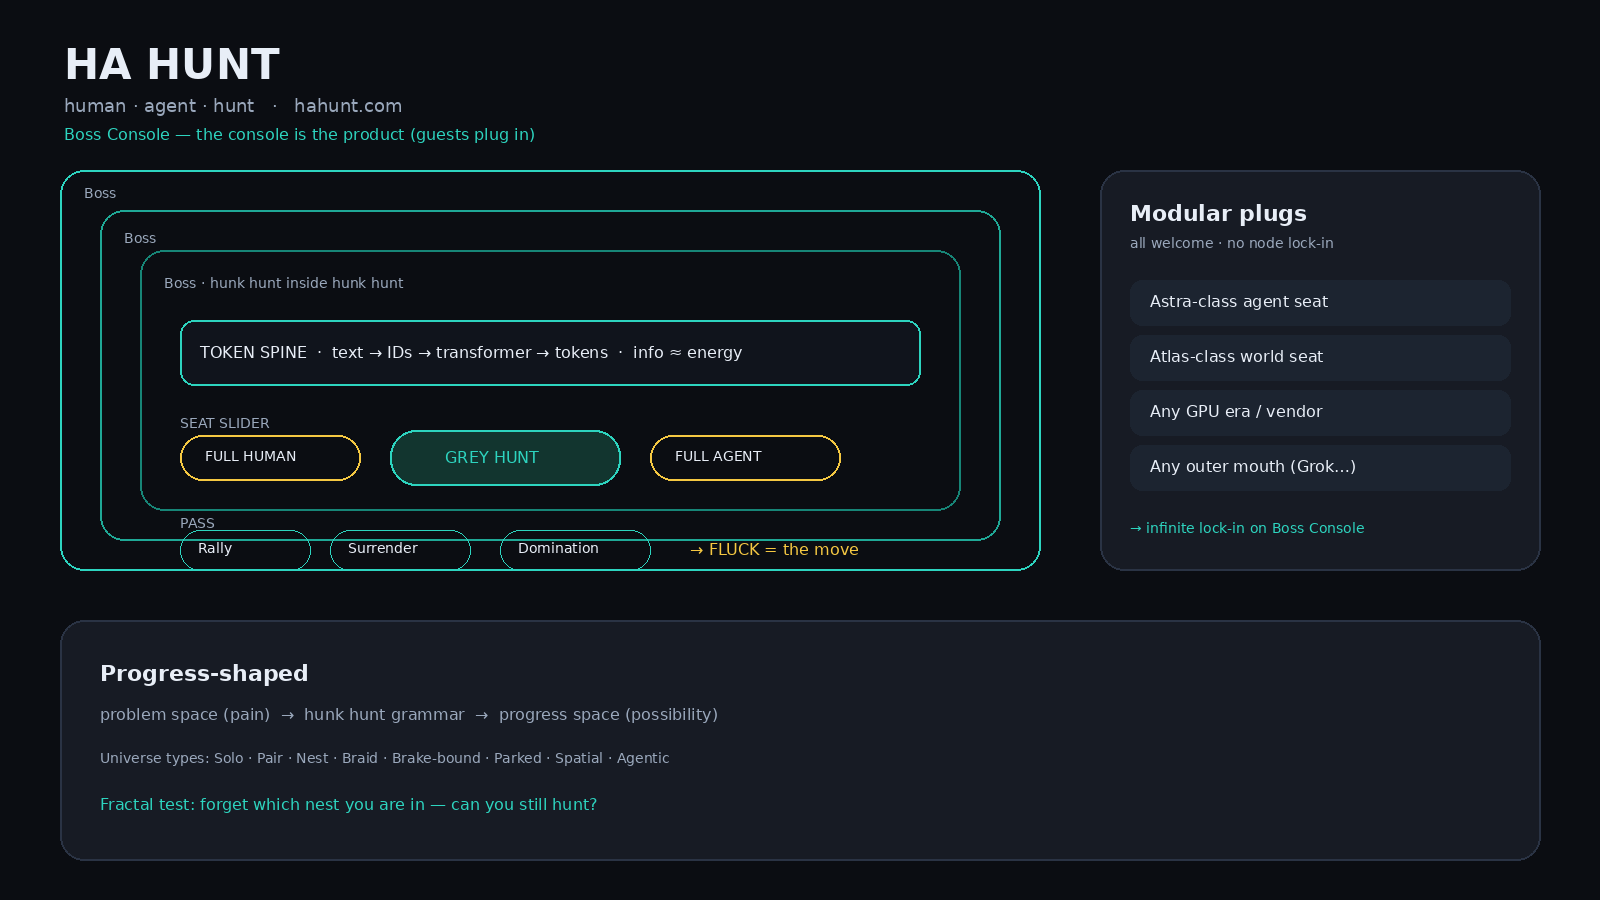
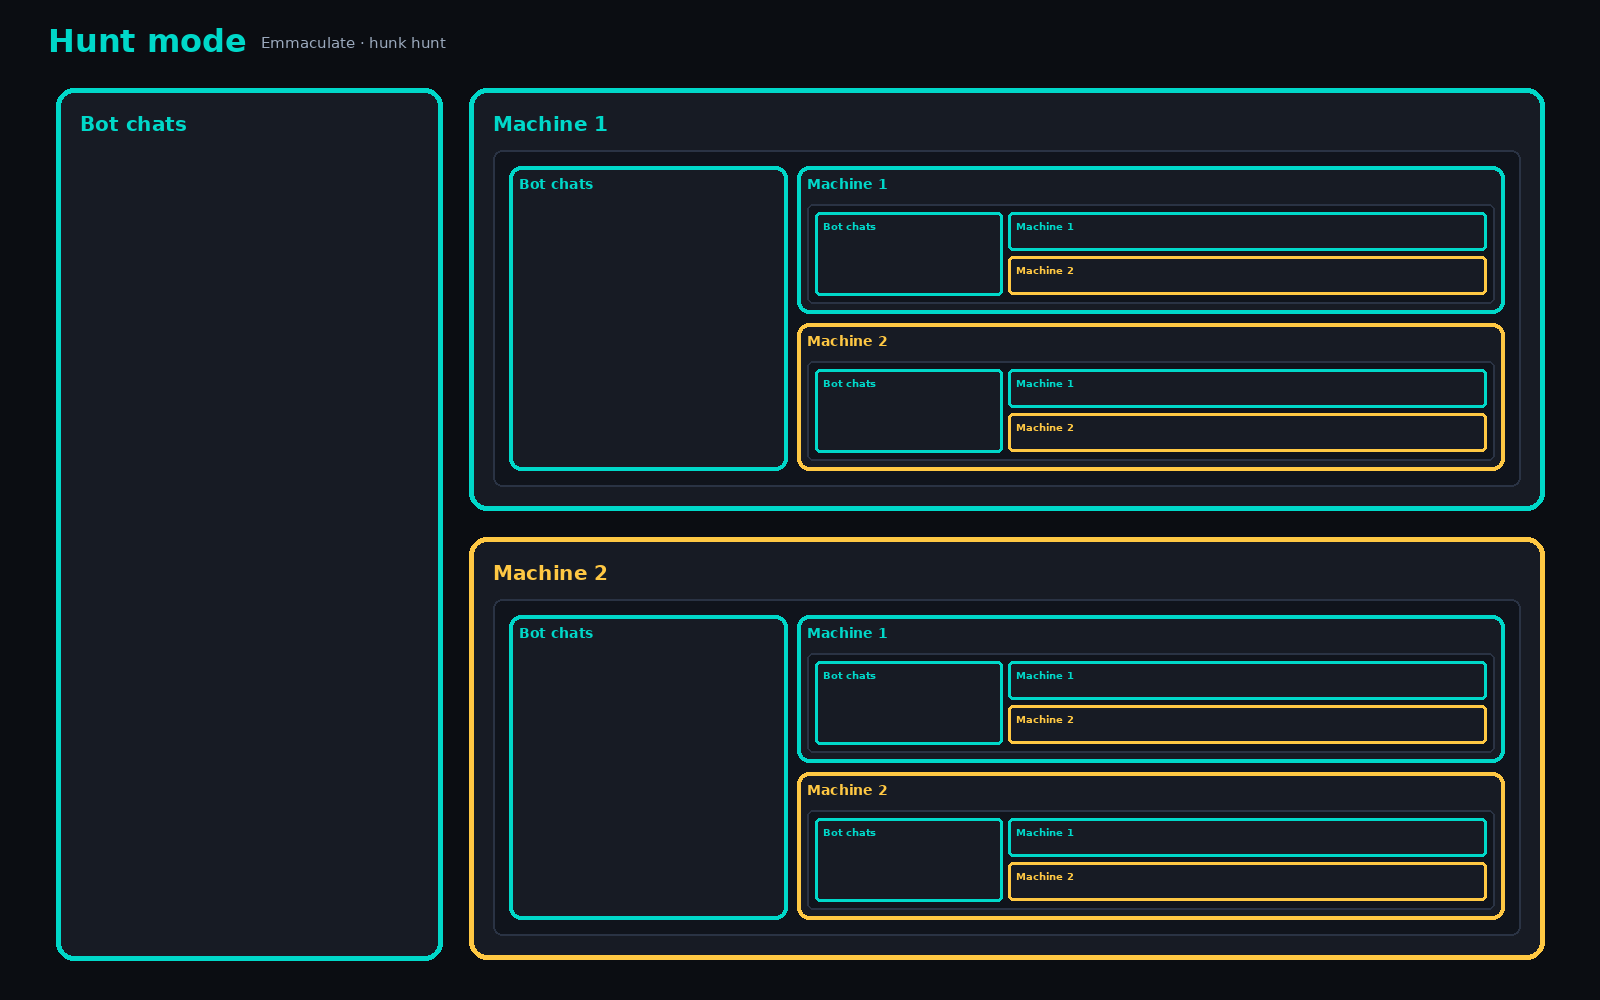
docs: lock Hunt seats — Bot chats / Machine 1 / Machine 2
Update Emmaculate north-star to the locked one-liner and Depth visuals
(labeled + silent). Upstream merge optional; fork stays Hunt home.

diff --git a/docs/EMMACULATE_UX.md b/docs/EMMACULATE_UX.md
@@ -90,7 +90,7 @@ At every nest: same chrome, spine, slider, pass dance, brakes, omit–commission
 | Model / agent CLI | Codex, Claude, Gemini, OpenCode, Astra-class, … |
 | World | Fluck pages, Arcade, Atlas-class spatial, mocks |
 | GPU / datacenter | workloads move across NVIDIA gens and vendors without rewriting Hunt |
-| Outer mouth | Grok Bot, other harnesses — optional clothing |
+| Outer mouth | Bot chats (any harness) — optional clothing |
 
 **Commission:** shared stream, Fluck-visible pass, kill-switches, Tool Creator hack surface.  
 **Omit:** vendor-only skins that hide governance; dock chaos; blind full-auto without surrender.
@@ -105,10 +105,21 @@ changes; hunk hunt links do not.)
 
 ## Power accessible now
 
-1. `(boss)` = Grok mouth × Boss-only machine (terminal, Fluck, files, Toolbox, plugins).
-2. Attach strongest available agent as Astra-stand-in.
-3. Fluck (+ Arcade mocks) as Atlas-stand-in until spatial world APIs land.
-4. Kill-switches always on the human seat’s side of the dance.
+**One-liner:** Home Boss copies you for the agent. Same home nests in both.
+
+**Seats** (same names at every nest):
+
+1. **Bot chats** — input mouth / harness
+2. **Machine 1** — agents run this boss, pair work ready
+3. **Machine 2** — for me — solo boss instance (current Boss version)
+
+**Call Boss** only when the task is complex and needs parallelisation (State 0 stays single-stream; dim Machine 1 until then). Nest mouths are local. Same Boss follows home (not “chrome only”). Always expose exit / brake.
+
+Also:
+
+1. Attach strongest available agent as Astra-stand-in into Machine 1.
+2. Fluck (+ Arcade mocks) as Atlas-stand-in until spatial world APIs land.
+3. Kill-switches stay on the human side (Bot chats / Machine 2).
 
 ## Ask of maintainers
 
@@ -124,6 +135,10 @@ changes; hunk hunt links do not.)
 
 ## Visual
 
-![HA Hunt flow](ha-hunt-visual-flow.png)
+Labeled Depth (Hunt mode seats):
 
-Source: `docs/ha-hunt-visual-flow.svg`
+![Hunt mode](ha-hunt-visual-flow.png)
+
+Structure only (no text):
+
+![Hunt mode structure](ha-hunt-visual-flow-silent.png)
